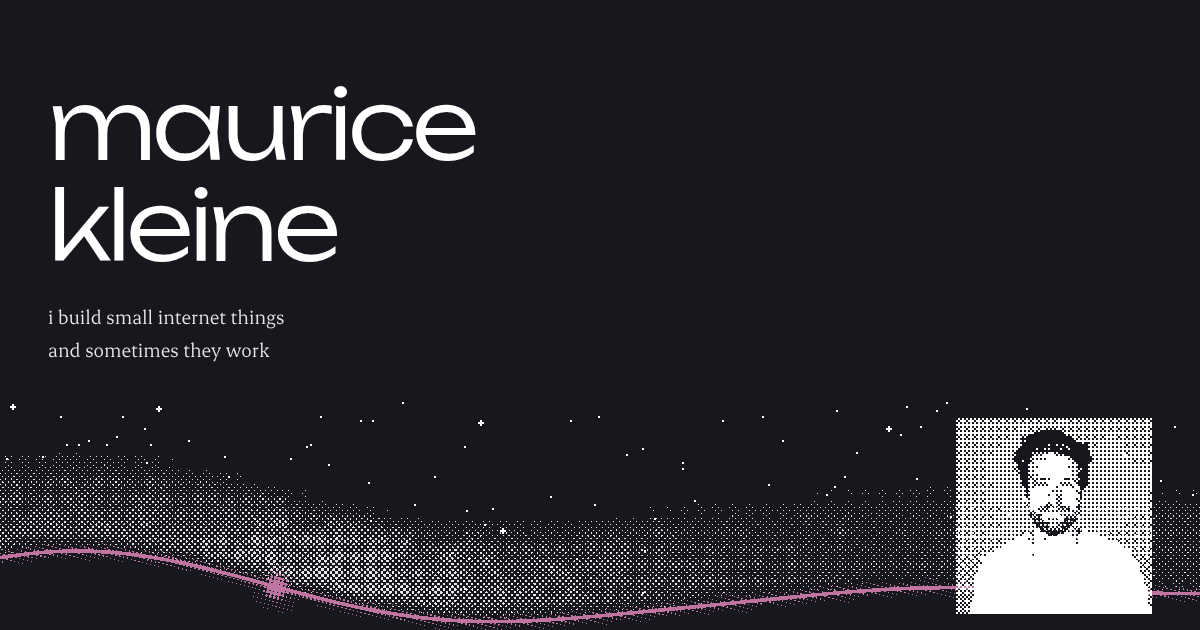
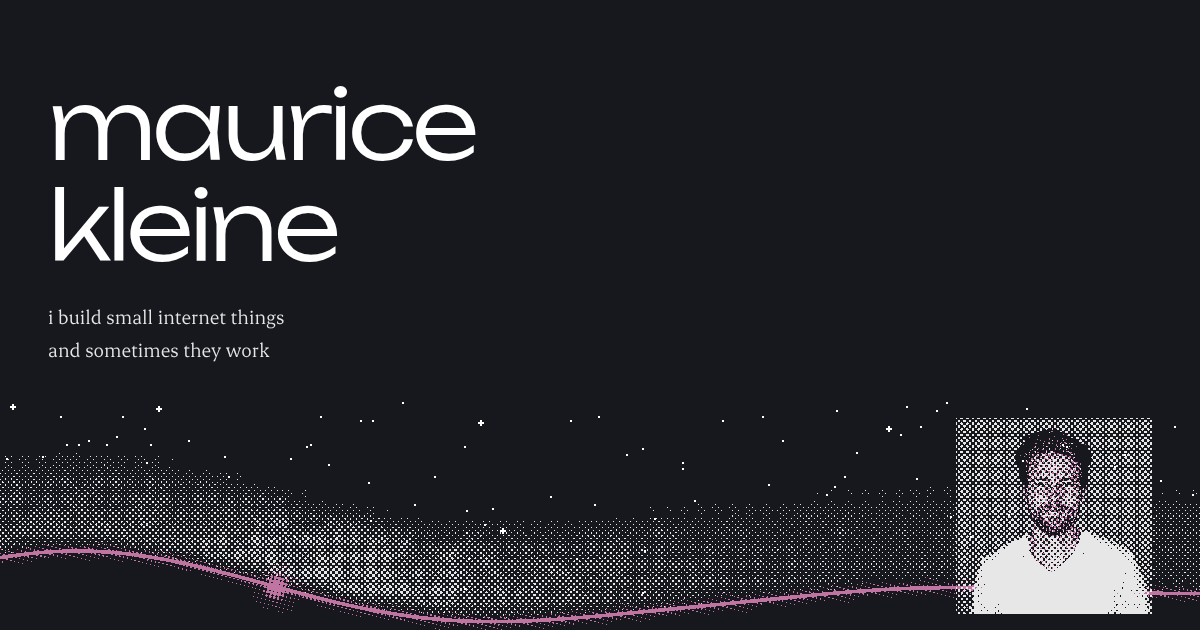
Print the www portrait through the sky dot screen

Changed region(s): [[0.8017, 0.6635, 0.9558, 0.9651]]

diff --git a/apps/web/tools/render-sky.ts b/apps/web/tools/render-sky.ts
@@ -1,5 +1,6 @@
-// Run from apps/web. ImageMagick encodes the fallback plates and composes the social card.
+// Run from apps/web. ImageMagick encodes the plates and composes the social card.
 import { join } from "node:path";
+import { prepareDots, printDots, screenTones } from "../../../packages/superthread/items/lib/dot-screen";
 import { prepareSky } from "../src/sky-field";
 
 function convert(args: string[], stdin?: Uint8Array) {
@@ -8,10 +9,13 @@ function convert(args: string[], stdin?: Uint8Array) {
   return result.stdout;
 }
 
+const firstInk = [231, 231, 231] as const;
+const plumInk = [192, 116, 161] as const;
+
 function sky(width: number, height: number, dpr: number, phone: boolean) {
   const pixels = new Uint32Array(width * height);
   const frame = prepareSky(width, height, dpr, phone, pixels);
-  frame.setInks([231, 231, 231], [192, 116, 161], [255, 255, 255]);
+  frame.setInks(firstInk, plumInk, [255, 255, 255]);
   frame.draw(0, false);
   return new Uint8Array(pixels.buffer);
 }
@@ -29,6 +33,46 @@ for (const [name, width, height, phone] of [
     ["-size", `${w}x${h}`, "-depth", "8", "rgba:-", "-strip", `PNG8:${publicDir}/sky/plate-${name}.png`],
     sky(w, h, 2, phone),
   );
+}
+
+const portraitInks = [
+  [0, 0, 0, 0],
+  [...firstInk, 255],
+  [...plumInk, 255],
+];
+for (const size of [136, 196]) {
+  const rgb = convert([join(publicDir, "maurice.png"), "-resize", `${size}x${size}`, "-depth", "8", "rgb:-"]);
+  const tones = screenTones(size, size);
+  for (let i = 0; i < size * size; i++) {
+    const r = rgb[3 * i],
+      g = rgb[3 * i + 1],
+      b = rgb[3 * i + 2];
+    const luma = (0.2126 * r + 0.7152 * g + 0.0722 * b) / 255;
+    // Deepen the shadows and let plum print in warm midtones.
+    const tone = Math.max(0, Math.min(1, (luma - 0.12) / 0.8));
+    const warmth = Math.max(0, Math.min(1, (r - b) / 72));
+    tones.set([256 * tone ** 2, 72 * warmth * 4 * tone * (1 - tone), 1, 1], 4 * i);
+  }
+  for (const dpr of [1, 2, 3]) {
+    const side = size * dpr;
+    const pixels = new Uint8Array(side * side);
+    printDots(prepareDots(size, size, side, side, dpr), tones, pixels, [0, 1, 2, 0]);
+    const rgba = new Uint8Array(pixels.length * 4);
+    for (let i = 0; i < pixels.length; i++) rgba.set(portraitInks[pixels[i]], 4 * i);
+
+    convert(
+      [
+        "-size",
+        `${side}x${side}`,
+        "-depth",
+        "8",
+        "rgba:-",
+        "-strip",
+        `PNG8:${publicDir}/portrait/maurice-${size}-${dpr}x.png`,
+      ],
+      rgba,
+    );
+  }
 }
 
 // The title and lede above the band are the typography of the existing card.
@@ -52,7 +96,7 @@ const image = convert(
     ")",
     "+swap",
     "-append",
-    join(publicDir, "portrait/maurice-196-dark.png"),
+    join(publicDir, "portrait/maurice-196-1x.png"),
     "-geometry",
     "+956+418",
     "-composite",

diff --git a/apps/web/src/components.tsx b/apps/web/src/components.tsx
@@ -23,13 +23,22 @@ export function EssayList({ variant }: { variant: "home" | "index" }) {
   );
 }
 
-// The portrait shares the sky's dark scope. The white ink falls on the light of the face.
+// The portrait shares the sky's dark scope. The dot plates leave the island stock open.
 function Portrait() {
   return (
     <span className="portrait-wrap">
       <picture className="portrait">
-        <source media="(max-width: 600px)" srcSet="/portrait/maurice-136-dark.png" />
-        <img src="/portrait/maurice-196-dark.png" alt="Portrait of Maurice Kleine" width="196" height="196" />
+        <source
+          media="(max-width: 600px)"
+          srcSet="/portrait/maurice-136-1x.png 1x, /portrait/maurice-136-2x.png 2x, /portrait/maurice-136-3x.png 3x"
+        />
+        <img
+          src="/portrait/maurice-196-1x.png"
+          srcSet="/portrait/maurice-196-1x.png 1x, /portrait/maurice-196-2x.png 2x, /portrait/maurice-196-3x.png 3x"
+          alt="Portrait of Maurice Kleine"
+          width="196"
+          height="196"
+        />
       </picture>
       <span className="moon" aria-hidden="true"></span>
     </span>

diff --git a/apps/web/DESIGN.md b/apps/web/DESIGN.md
@@ -28,7 +28,7 @@ Superthread's utilities and faces, from `packages/superthread/dist/v2/superthrea
 Registry items come from `packages/superthread/items` through the `@/components/superthread` alias, so www never carries a copy. `site.css` owns the page blocks.
 
 - The band (`Opener`) holds the full-width `#sky` canvas. On home it takes 36svh between 220 and 440 px, or 24svh between 160 and 240 px on a phone. The slim band takes 120 px, or 96 px on a phone. `public/sky/` holds frame-zero plates for the home and slim bands at desktop and phone widths. The plates leave the stock open so both page modes use the same files. They print at 2×, centred at the foot of the band at native CSS size.
-- The portrait (`public/portrait/`) is a two-ink Bayer 4 screen of `maurice.png` at 196 and 136 px, on 2 px cells. Both page modes use the dark files inside the island. Home shows the full square. About shows the face in the slim band at native scale.
+- The portrait (`public/portrait/`) prints `maurice.png` through the sky’s 4 CSS px dot screen at 196 and 136 px. The first ink runs at 45° and plum at 15°. Both page modes use the same transparent plates at 1×, 2× and 3×, with each pixel printed in one ink or left open to the island stock. Home shows the full square. About shows the face in the slim band at native scale.
 - **Side quests** (`SideQuests`): a constellation tile (1:1 SVG, 4 px stars, 1 px lines), the project name and one line. Its lines take the first ink on hover and focus. No cards.
 - **Graveyard**: ledger rows with a `✧`, the name, a `Badge` (`done` for exits, `queued` for the rest) and mono years.
 - **Essays**: rows on the home page. On `/essays`, each row holds the cover with a 1 px edge, title, summary and date. The essay page sets its title in `type-page` above the slim band, lists its `h2`s in "on this page" and keeps images at full opacity with a 1 px edge.
@@ -58,6 +58,6 @@ Beyond the band:
 ## Assets
 
 - `maurice.png` (touch icon and portrait source) and `favicon.ico`.
-- `og.png` is a 1200 × 630 image of the home title, lede, portrait and sky, with the sky held still. Run `bun tools/render-sky.ts` in `apps/web` to print the four fallback plates and the band in the social card with the live renderer.
+- `og.png` is a 1200 × 630 image of the home title, lede, portrait and sky, with the sky held still. Run `bun tools/render-sky.ts` in `apps/web` to print the four sky fallback plates and the six portrait plates, then compose the band and portrait into the social card.
 - `public/fonts/` serves the frozen v1 theme's copies; www itself loads its fonts from the superthread host.
 - Simple Analytics (`https://api.mauricekleine.com/latest.js`) at the end of the body.
